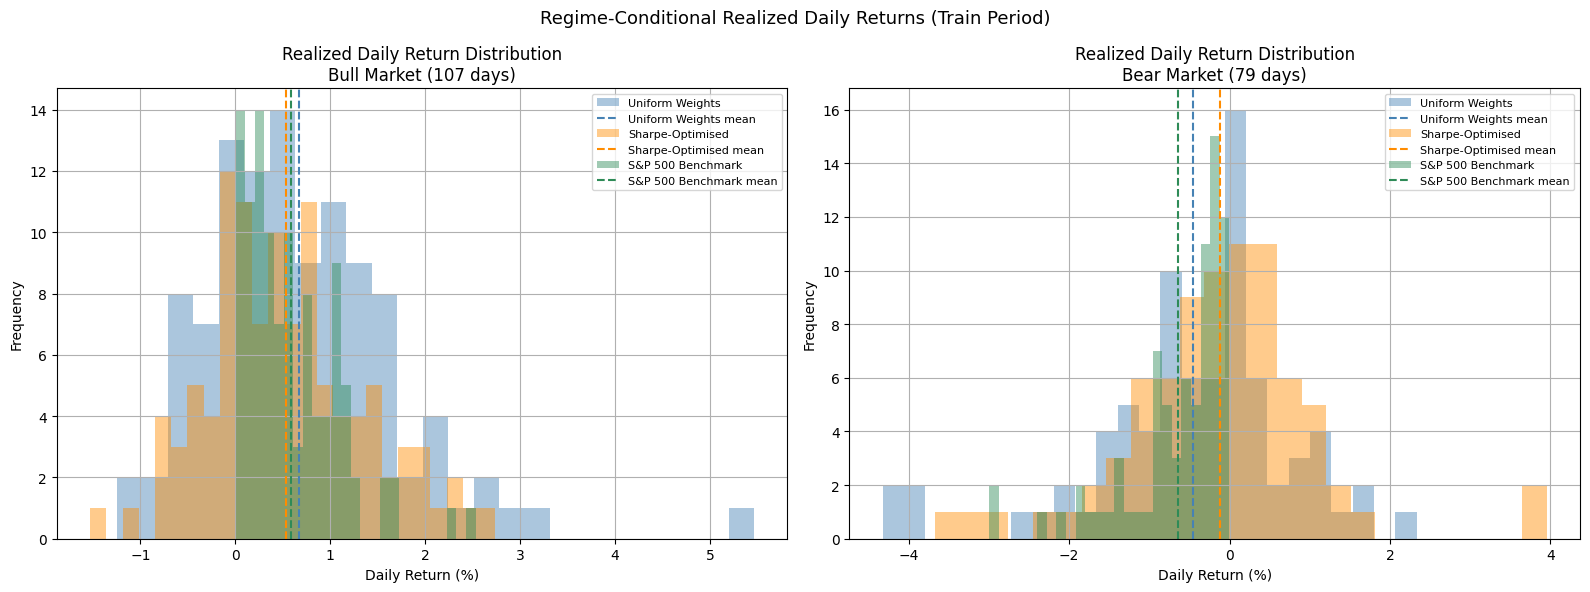
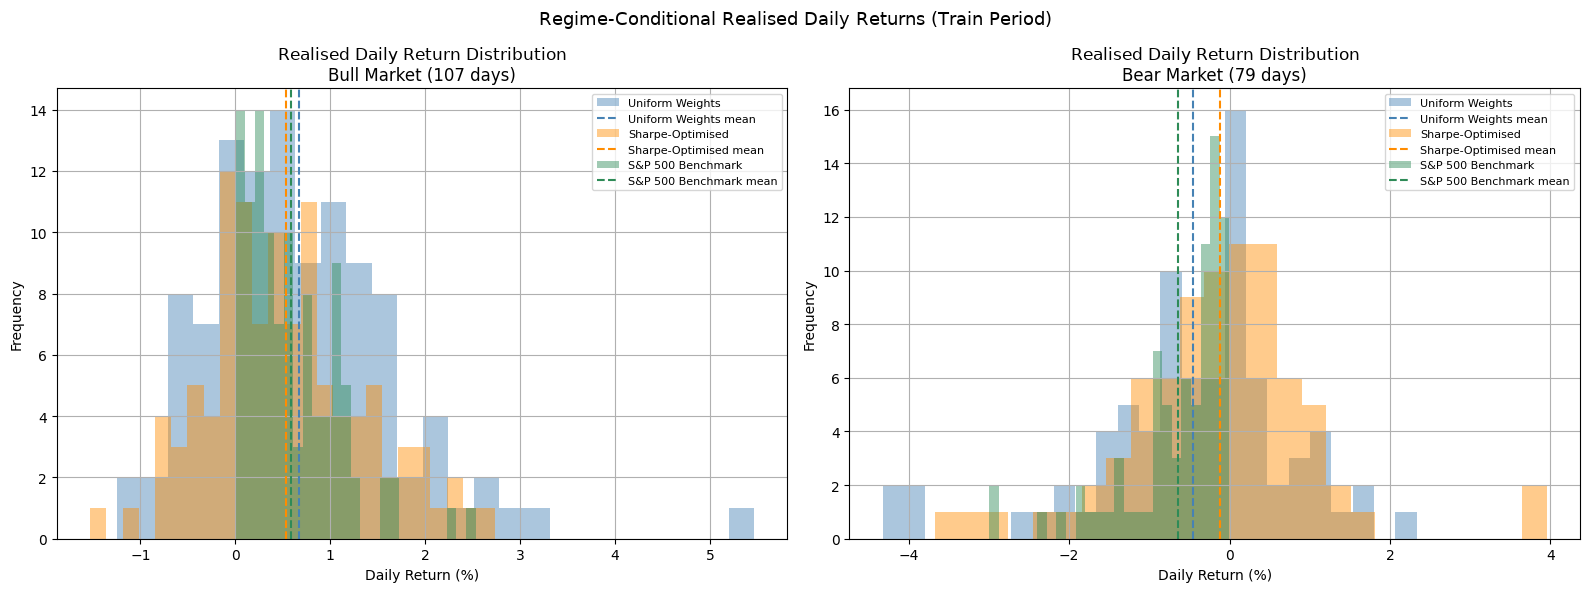
format fix

Changed region(s): [[0.339, 0.0, 0.678, 0.0608], [0.678, 0.0608, 0.8629, 0.1216], [0.1849, 0.0608, 0.3698, 0.1216]]

diff --git a/README.md b/README.md
@@ -141,7 +141,7 @@ The train period is partitioned into bull-market days (S&P 500 daily return grea
   Bear days (S&P 500 <= 0): 79
 ```
 
-![Realized daily return distributions by regime](assets/regime_analysis.png)
+![Realised daily return distributions by regime](assets/regime_analysis.png)
 
 ```
                               Mean/day  Std Dev  Ann. Sharpe  % Days +  Worst Day
